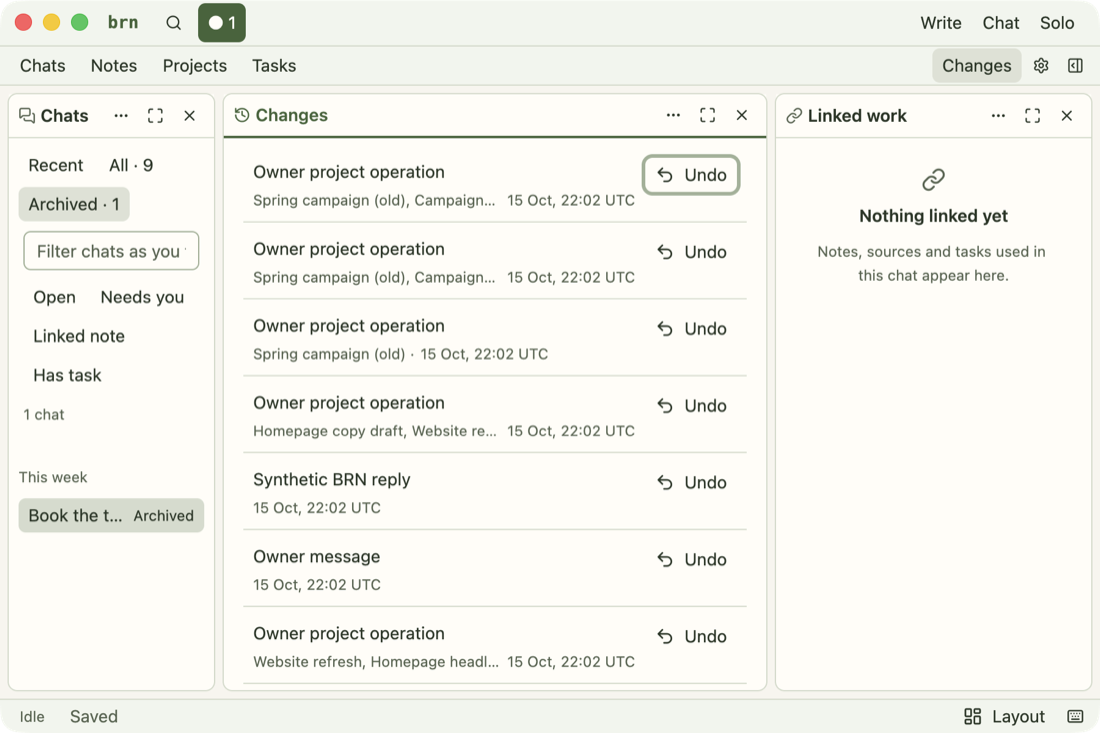
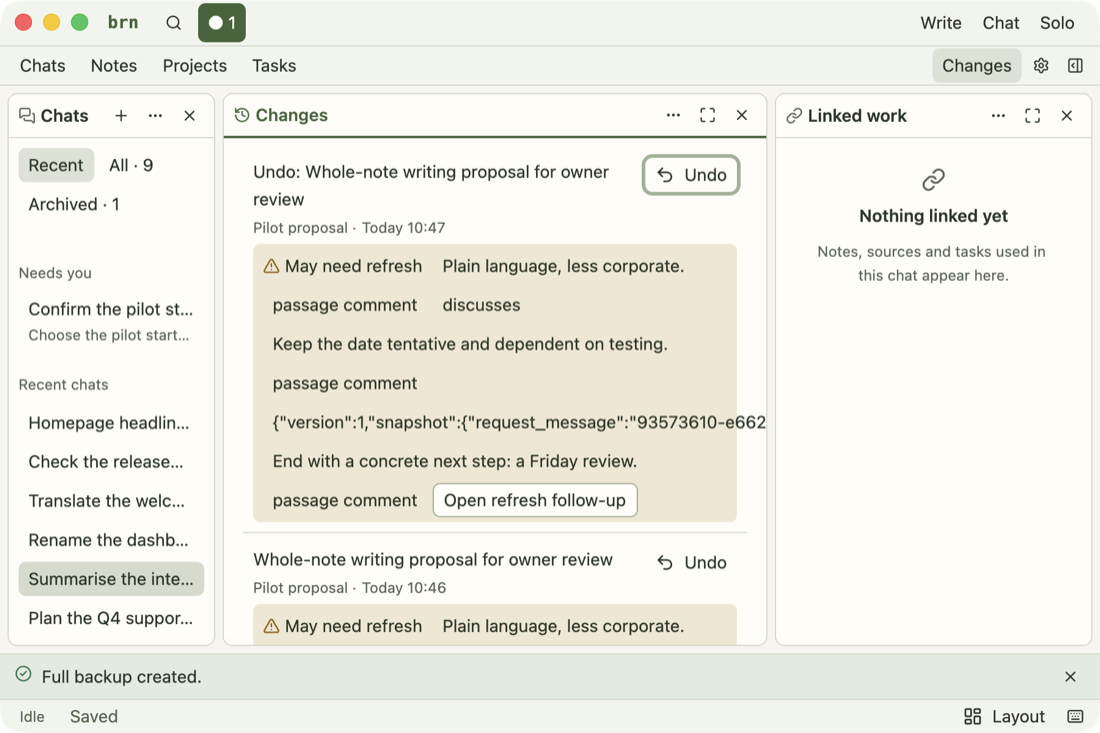
docs: record ui-polish native recheck of the fix pass on 354c1940

diff --git a/docs/work/active/ui-polish/verification.md b/docs/work/active/ui-polish/verification.md
@@ -1,6 +1,6 @@
 # UI polish: verification
 
-**Date:** 16 October 2026 (times are EEST, UTC+3). **Branch:** `work/ui-polish`, HEAD `ed8daa82` (base `771116f0`), worktree `.worktrees/ui-polish`. Nothing here is owner-accepted, published, merged or released. The record step commits this file and [`after/`](after/) with [evidence.md](evidence.md).
+**Date:** 16 October 2026 (times are EEST, UTC+3). **Branch:** `work/ui-polish`, worktree `.worktrees/ui-polish`, base `771116f0`, synced with `origin/main` `8bef439b`. The first native observation ran on HEAD `ed8daa82`. The [recheck of the fix pass](#recheck-of-the-fix-pass-head-354c1940) and the latest gate ran on HEAD `354c1940`. Nothing here is owner-accepted, published, merged or released. This file and [`after/`](after/) are committed with [evidence.md](evidence.md).
 
 ## Implemented
 
@@ -14,12 +14,35 @@ The seven slices and the integration fixes in [impl-plan.md](impl-plan.md) are o
 - **S6:** lists, pages and Settings.
 - **S7:** dialogs, focus, small windows and the state and copy sweep.
 - **Integration:** a fix commit (`ed8daa82`).
+- **Fix pass:** `3fdf5489` and its review round 2 (`354c1940`) fix the five native defects below, INT-1 to INT-6, U8 and U10. Detail is in [evidence.md](evidence.md#fix-pass-native-defects-integration-findings-u7-u8-u10).
 
 All seven slice reviews and the integration review (`code-review.md`, an uncommitted workflow file) are APPROVED. `git diff 771116f0 -- crates ':!crates/brn-desktop'`, `Cargo.lock` and the crate manifests are all empty.
 
 ## Automated-verified
 
-Run on HEAD `ed8daa82` with `PATH=/opt/homebrew/opt/rustup/bin:$PATH` and `CARGO_TARGET_DIR=<worktree>/target`, Rust 1.98.1. All commands exited 0. The only warning was the existing `block 0.1.6` future-incompatibility notice.
+### Full gate on HEAD `354c1940`
+
+Rerun by the verify step from 10:29:38 to 10:30:14, before any window opened. It used the full gate from [impl-plan.md](impl-plan.md#commands), `PATH=/opt/homebrew/opt/rustup/bin:$PATH`, `CARGO_TARGET_DIR=<worktree>/target` and Rust 1.98.1. Every command exited 0. The only warning was the existing `block 0.1.6` future-incompatibility notice.
+
+| Command | Result |
+|---|---|
+| `RUST_TEST_THREADS=1 scripts/verify-desktop-shell.sh` | helper and desktop build, clippy `-D warnings`, **263 passed**, 0 failed |
+| `cargo fmt --all -- --check` | clean |
+| `python3 scripts/check-markdown-links.py` | 117 files, 438 local links, 0 failures before these doc edits; 117 files, 472 local links, 0 failures on this commit |
+| `git diff --check` | clean |
+| `cargo clippy -p brn-desktop --features native-ui --all-targets --locked --offline -- -D warnings` | clean |
+| `cargo test -p brn-desktop --features native-ui --locked --offline` | **76 passed** |
+| `cargo clippy … --features native-ui,native-retrieval --all-targets … -D warnings` | clean |
+| `cargo test -p brn-desktop --features native-ui,native-retrieval --locked --offline` | **76 passed** |
+| `cargo test -p brn-desktop --locked --offline` (default features) | **28 passed** |
+| `cargo clippy -p brn-desktop --all-targets --locked --offline -- -D warnings` (default features) | clean |
+| `cargo clippy --workspace --all-targets --locked --offline -- -D warnings` | clean |
+
+`git diff --stat 771116f0 -- crates ':!crates/brn-desktop'` is empty, so the workspace test suite was not rerun. `Cargo.lock` and the crate manifests are unchanged from `771116f0`. The shared seam files and `docs/status.md` are unchanged from `8bef439b`. `origin/main` has since moved to `027aa7c2`; this branch is not synced with it.
+
+### Earlier gate on HEAD `ed8daa82`
+
+Run with `PATH=/opt/homebrew/opt/rustup/bin:$PATH` and `CARGO_TARGET_DIR=<worktree>/target`, Rust 1.98.1. All commands exited 0. The only warning was the existing `block 0.1.6` future-incompatibility notice.
 
 | Command | Result |
 |---|---|
@@ -37,6 +60,74 @@ Run on HEAD `ed8daa82` with `PATH=/opt/homebrew/opt/rustup/bin:$PATH` and `CARGO
 I didn't rerun the full workspace test suite, because nothing outside `crates/brn-desktop` changed. Keyboard, focus, Escape order, dialog ↵ classes, layout fits and theme deferral are covered by the 245 native tests. The real-input checks below are additional to those tests.
 
 ## Native-observed
+
+### Recheck of the fix pass (HEAD `354c1940`)
+
+A short check with real input of the items the fix pass changed, at 900×600 in light (Sammal) and dark (Virmalised), plus 1250×860 for INT-3. No fixes were made in this step.
+
+**How:**
+
+- **Build.** `cargo build -p brn-desktop --features native-ui --locked --offline` at `354c1940` produced the binary, sha256 `3a922bcc…28b0be`. `scripts/make-macos-app.sh` wrapped it in two scratch bundles under `/private/tmp/brn-ui-polish-recheck-20261016/apps/`, with bundle IDs `dev.brn.threads.uipolish-recheck.{seeded,empty}`.
+- **Data.** [`seed-fixture.rs.txt`](observation/seed-fixture.rs.txt) was built as a temporary example in a `git archive` export outside Git. It ran through the shared `Workspace` service against fresh `seeded` and `empty` folders, and headless startup reported 71 and 2 records.
+  - The provider is `offline-fixture` with no credentials. No provider request was made, and nothing that starts a run was pressed: no Continue, Retry, Resume queue or Send.
+  - The only writes were synthetic and went through the checked service: one Apply and its Undo, one discarded edit, one full backup to the scratch folder, theme changes, and one unsaved edit left in the scratch data for the restart check.
+- **Input and capture.** `AXIsProcessTrusted()` returned `true`. [`input.swift`](observation/input.swift) posted the CGEvents, with the scratch-only keycode typer from the first run. That typer left Shift latched once, so one draft reads in capitals ([06](after/06-comment-draft-stacked-900-light.png)); this is a harness artifact. [`wincap.swift`](observation/wincap.swift) captured the windows. The observation harness was not built or used, and nothing was compiled into `crates/` or `scripts/`.
+
+**Go-ahead and timing.**
+
+- Before any window opened, this step sent the parent a warning asking for a go-ahead. The orchestrator first replied "no go-ahead yet". The go-ahead acted on was the later reply "go" in this step's session.
+- Before launching anything, `.worktrees/coordination/MAC-IN-USE` did not exist. This step created it at 10:43 and deleted it at 10:59:21, then added a line to `BOARD.md` under "work/ui-polish (lead)".
+- Window use ran from **10:43:23** (seeded bundle launched) to **10:59:09** (empty bundle quit with ⌘Q):
+  - The seeded bundle quit with ⌘Q at 10:56:02 for the restart check, relaunched at 10:56:21, and quit at 10:57:25.
+  - The empty bundle launched at 10:57:31.
+- After quitting, `pgrep` found no `brn-desktop` process and ScreenCaptureKit listed no BRN window.
+
+**Results.** "Rechecked" means seen with real input on this build; the test names are in [evidence.md](evidence.md#fix-pass-native-defects-integration-findings-u7-u8-u10).
+
+| Item | Native result at `354c1940` | Status |
+|---|---|---|
+| 1 Focus after Escape on a menu-launched dialog | Projects ⋯ → Move to Trash… → Escape, then ⌘K opened the launcher. Projects ⋯ → Instructions & settings → Escape, then Tab moved the focus ring to the Trash segment inside Projects, and ⌘K opened the launcher. [47](after/47-cmdk-after-menu-dialog-escape-900-light.png) | **fixed, rechecked** for the two Projects ⋯ dialogs. The Note ⋯, Chats ＋ and row-menu dialogs were not rechecked. |
+| 2 Queue strip "1 waiting · Pa…" | In the narrow Write companion the strip reads "Paused · 1 wa…": the state is whole and the count gives way. Its tooltip is "Paused · 1 waiting". Chat layout shows "Paused · 1 waiting", and 1250×860 shows "Queue paused · 1 waiting". [01](after/01-shell-900-light.png), [48](after/48-queue-strip-tooltip-900-light.png) | **fixed, rechecked** |
+| 3a Delegation card | The explanations wrap inside the card, and "notes?" stays one unit, in light and Virmalised. [43](after/43-delegation-card-900-light.png) | **fixed, rechecked** |
+| 3b Stacked draft input | `comment-input-box` is whole inside the section, and Escape collapsed it with the caret back in the editor. [06](after/06-comment-draft-stacked-900-light.png) | **fixed, rechecked**. A new clip below the section is listed under "New findings". |
+| 3c Notes rows "Protect…" | The protected decision shows the Lock chip, in light and Virmalised. [05](after/05-note-comments-stacked-900-light.png) | **fixed, rechecked** |
+| 3d Navigation titles "…" | "Chats" and "Notes" read in full in the 170 pt navigation panel, and Maximize is in the header ⋯. [01](after/01-shell-900-light.png) | **fixed, rechecked** |
+| 4a, U8 Receipt reasons in notices | Apply: "Saved. 8 related items may need refresh. Open Changes to review them." Undo: "Undone. 8 related items may need refresh. …". Neither shows the service reason. [44](after/44-applied-notice-900-light.png) | **fixed, rechecked** |
+| 4b "Passage not found" after Undo | After Apply (v2) and Undo (v3), all three cards read "Tied to v1, not re-anchored to v3. Exclude it, or select the passage and comment again." [45](after/45-note-wide-toolbar-1250-dark-virmalised.png) | **fixed, rechecked** |
+| 4c Backup path twice | In Settings → Data the banner reads "Full backup created.", and the status line keeps the path once. | **fixed, rechecked** |
+| 4d UTC times | Changes shows "Today 10:47" and "Today 10:46", the local times of the Undo and the Apply. The UTC tooltip was not hovered. [11](after/11-changes-900-light.png) | **fixed, rechecked** |
+| 5a Settings ring on General | After a click on Models (light) or on General (Virmalised), no focus ring stays on General. [16](after/16-settings-models-900-light.png) | **fixed, rechecked** |
+| 5b Continue and Send both filled | Beside the Failed card and the "Not answered yet" card, Continue is filled and Send is outline. Checked in the Write companion and Chat layout, in light and Virmalised. [29](after/29-chat-failed-900-dark-virmalised.png) | **fixed, rechecked** |
+| 5c Busiest Note text box | The busiest state (stale edit, failed note run, partial reply, dirty bar) can't be built from this fixture. | not rechecked |
+| INT-2 Undo during an open edit | After Apply, typing hid `undo-writing-apply` (Discard…, Save as new note, Save ⌘S). After the Discard dialog's danger Discard, Undo was back. | **fixed, rechecked** |
+| INT-3 Edit note and Connections at 1250×860 | With system fonts, a plain note (Vendor comparison) keeps all five format buttons, Outline, the status chip, the comment toggle, Edit note and Connections in one toolbar row. The Pilot proposal (3 comments, "Working · v3") also keeps Edit note and Connections, with formatting folded into Format ▾. So the test text system's 706 pt estimate is conservative on macOS. [45](after/45-note-wide-toolbar-1250-dark-virmalised.png), [46](after/46-plain-note-toolbar-1250-dark-virmalised.png) | **fixed, rechecked** |
+| INT-6 Disabled Show passage | Hovering a card showed "Show passage is unavailable: the comment is tied to v1, not v3." | rechecked (tooltip only) |
+| U7 Needs-you rows | "Confirm the pilot st…" sits above its reason. The recoverable-edit row is listed under "New findings". | partly rechecked |
+| INT-1 Kept-edit primary | After ⌘Q with an unsaved edit and a relaunch, BRN reopened it as an open recoverable edit ("Unsaved edit · recoverable", with Save ⌘S as the primary), not the blocked kept-edit state. | not rechecked |
+| INT-4, FIX-2 Banner stack and text floor | The fixture has no stale-edit or newer-version banner. The text-floor rule stays **pending owner acceptance**. | not rechecked |
+| U10 Recorded terminal notice | This needs a run that finishes Failed or Interrupted, which needs a provider. | not rechecked |
+| INT-5 Untested states | The empty states were seen again (no chats, no note open, no comments yet), along with the delegation card. Link document by keyboard and the running short-window queue were not checked. | partly rechecked |
+
+**New findings at `354c1940`** (native, not fixed here):
+
+1. **The writing bar clips while a stacked comment draft is open at 900×600.**
+   - The bar's last row runs out of the Note's bottom edge: "Rewrite with AI ⌘⇧R" at v1.
+   - After Undo, with the notice row shown, the filled primary "Retry saved rewrite" is about half visible.
+   - With the section open and no draft, the bar fits.
+   - Shot: [06](after/06-comment-draft-stacked-900-light.png).
+2. **Edit note's disabled reason contradicts the status bar.** While a waiting message sits in the paused queue, Edit note is disabled with "Edit note is unavailable: BRN is working", but the status bar reads "Idle" and nothing runs.
+   - The gating (`context_work_idle` requires an empty queue) is unchanged from `771116f0`. The reason wording is new on this branch.
+   - Shot: [46](after/46-plain-note-toolbar-1250-dark-virmalised.png).
+3. **Changes' "May need refresh" sub-row names records through `title()`.**
+   - A writing-request record shows raw JSON (`{"version":1,"snapshot":{"request_message":…`), which runs past the panel edge.
+   - Comment and link records show "passage comment" and "discusses".
+   - The naming is unchanged from base (which labelled them "May need refresh: …"); the pill layout is new.
+   - Shot: [11](after/11-changes-900-light.png).
+4. **The recoverable-edit needs-you row leads with the action.** At 170 pt it reads "Recov… [Unsaved]", so the note's name shows only in the tooltip ("Recover edit · Vendor comparison · Unsaved").
+
+**Shots replaced in [`after/`](after/)** by captures from this build: 01, 04, 05, 06, 08, 11, 14 and 16 (same states), 29 (now Virmalised), and 43 (the delegation card, now fixed). Added: 44 to 48. The rest (10, 22, 25, 27, 34, 37, 41, 42) are still from `ed8daa82`, and some of them show the old queue strip and navigation titles.
+
+### First observation (HEAD `ed8daa82`)
 
 **How:** real input on the unmodified product build, not the harness.
 
@@ -56,7 +147,7 @@ I didn't rerun the full workspace test suite, because nothing outside `crates/br
 - Before the go-ahead, only windowless checks ran: the AX-trust query and `--headless-check startup`.
 - After quitting, `pgrep` found no BRN process from this step, and ScreenCaptureKit listed no BRN windows.
 
-**Journeys observed at 900×600 (one at 1250×860)**, in light (Sammal) and dark (Virmalised, Raba). Shots are 1100 px wide in [`after/`](after/); [`before/`](before/) was captured mostly at 1250×860 with the same fixture.
+**Journeys observed at 900×600 (one at 1250×860)**, in light (Sammal) and dark (Virmalised, Raba). Shots are 1100 px wide in [`after/`](after/); [`before/`](before/) was captured mostly at 1250×860 with the same fixture. Shots 01, 04, 05, 06, 08, 11, 14, 16, 29 and 43 were later replaced by recheck captures at `354c1940` (same states, fixed items), so they no longer show the defects listed below.
 
 - **Shell.**
   - Write | Chat | Solo is in the title bar, and the status bar has run state, save state, Layout and Keys, with no theme control.
@@ -87,7 +178,7 @@ I didn't rerun the full workspace test suite, because nothing outside `crates/br
   - The failed run shows a Failed card in the error tone with the full recorded reason, the Continue consequence and "1 waiting message stays paused until you resume the queue."
   - The archived chat shows one Unarchive with Continue disabled, "Unarchive to continue."
   - The composer is one row.
-  - Shots: [22](after/22-chat-needs-you-900-light.png), [29](after/29-chat-failed-900-dark-raba.png), [25](after/25-archived-chat-900-light.png); compare [before 22](before/22-chat-needs-you-light.png), [before 25](before/25-archived-chat-light.png) and [before 29](before/29-chat-failed-dark-raba.png).
+  - Shots: [22](after/22-chat-needs-you-900-light.png), [29](after/29-chat-failed-900-dark-virmalised.png) (replaced at the recheck: Virmalised, Send outline), [25](after/25-archived-chat-900-light.png); compare [before 22](before/22-chat-needs-you-light.png), [before 25](before/25-archived-chat-light.png) and [before 29](before/29-chat-failed-dark-raba.png).
 - **Lists and pages.**
   - **Tasks:** one outline action plus a row ⋯ per task; Done and Cancelled are collapsed.
   - **Changes:** Undo ghosts.
@@ -103,7 +194,7 @@ I didn't rerun the full workspace test suite, because nothing outside `crates/br
   - Home shows the intro and the pending delegation card with two outline buttons and no filled primary. The card shows in one place at a time.
   - Shots: [41](after/41-empty-first-run-900-light.png), [42](after/42-empty-home-900-dark-virmalised.png); compare [before 41](before/41-empty-first-run-light.png).
 
-**Defects and rough edges seen natively.** No fixes are made in this step.
+**Defects and rough edges seen natively.** No fixes were made in that step. The fix pass fixed all five. The [recheck](#recheck-of-the-fix-pass-head-354c1940) saw these fixed natively: 1 (for the Projects ⋯ dialogs), 2, 3a–3d, 4a–4d, 5a and 5b. It did not recheck 5c.
 
 1. **Keyboard focus is lost after Escape closes a dialog opened from a ⋯ menu item.** This is the most important finding, because it breaks predictable keyboard use.
    - After Projects ⋯ → Move to Trash… → Escape, and again after Projects ⋯ → Instructions & settings → Escape, ⌘K and Tab did nothing until a click in the window.
@@ -111,7 +202,7 @@ I didn't rerun the full workspace test suite, because nothing outside `crates/br
    - The Note ⋯ "Discard edit…" path was not checked. These menu entry points are new on this branch; the base was not compared.
 2. **"Paused" is truncated** to "1 waiting · Pa…" in the queue strip of the narrow Write-layout chat companion at 900×600. Chat layout shows "1 waiting · Paused" in full. The tooltip was not checked.
 3. **Clipping at narrow widths:**
-   - The delegation card's "BRN updates ordinary notes and source referen…" runs past the card edge in the chat companion, and its "?" wraps onto its own line ([43](after/43-delegation-card-clipped-900-light.png)).
+   - The delegation card's "BRN updates ordinary notes and source referen…" runs past the card edge in the chat companion, and its "?" wraps onto its own line. The clipped shot was replaced at the recheck by the fixed card ([43](after/43-delegation-card-900-light.png)).
    - The stacked comment draft's input is cut off at the bottom by the section's height cap.
    - Notes rows show "Protect…".
    - Navigation panel titles collapse to "…" (the icon remains).
@@ -133,9 +224,16 @@ I didn't rerun the full workspace test suite, because nothing outside `crates/br
 
 ## Not observed
 
+- **Fix-pass items not rechecked natively** (automated-verified only):
+  - 5c, the busiest Note's text box
+  - INT-1, the kept-edit Recover primary
+  - INT-4 and FIX-2, the banner stack and the text floor under a banner (the rule is **pending owner acceptance**)
+  - U10, the recorded terminal notice
+  - the menu-launched dialogs other than Projects ⋯ (Note ⋯ Edit note… and Discard edit…, Chats ＋ New note, and the row menus' Move to project…)
+  - FIX-3, the Windows build
 - Live streaming, Stop/Steer, U1 Stop… on an orphaned Working run, the Note's still-running state, and the Quiet-off trace. These need a running worker; no provider calls were made.
-- The U3 review rows with Protected, a stale-edit or newer-version banner, the import-summary banner, and the recoverable-edit banner after a restart. The fixture doesn't create these states.
+- The U3 review rows with Protected, a stale-edit or newer-version banner, and the import-summary banner. The fixture doesn't create these states. After a restart, the unsaved edit came back as an open recoverable edit, which was observed at the recheck.
 - Attachments, Keep in BRN, Save as decision, Edit note, Connections, Knowledge check, Compare, Search, the Trash restore flow, the delete dialog's task choices, export, Change folder, and native file pickers.
-- Hover tooltips (apart from incidental ones), drag-resize, the 1050×700 size, Solo, Läänemeri, Paber, VoiceOver, IME, and contrast measurement.
+- Hover tooltips (apart from incidental ones and the queue strip's), drag-resize, the 1050×700 size, Solo, Läänemeri, Paber, VoiceOver, IME, and contrast measurement.
 - Tab-to-⋯ → ↵ → ↓ ↵ by real keys. Native-test-verified only.
 - Owner acceptance, and comparison against a native base build.

diff --git a/docs/work/active/ui-polish/evidence.md b/docs/work/active/ui-polish/evidence.md
@@ -1,14 +1,14 @@
 # UI polish: evidence
 
-**Date:** 16 October 2026. **Branch:** `work/ui-polish` (local only, not pushed), base `771116f0`. Product code was at `ed8daa82` for the native observation; the record commit added only these documents, and the [fix pass](#fix-pass-native-defects-integration-findings-u7-u8-u10) commits (`3fdf5489` and its [review round 2](#fix-pass-review-round-2)) change product code after it. **Design:** [plan.md](plan.md). **Slices:** [impl-plan.md](impl-plan.md). **Detailed verification and native observation:** [verification.md](verification.md).
+**Date:** 16 October 2026. **Branch:** `work/ui-polish` (local only, not pushed), base `771116f0`. The first native observation ran on `ed8daa82`. The [fix pass](#fix-pass-native-defects-integration-findings-u7-u8-u10) commits (`3fdf5489` and its [review round 2](#fix-pass-review-round-2), `354c1940`) change product code after it. They were [rechecked natively](#native-recheck-of-the-fix-pass-354c1940) on `354c1940`. **Design:** [plan.md](plan.md). **Slices:** [impl-plan.md](impl-plan.md). **Detailed verification and native observation:** [verification.md](verification.md).
 
 Each status below is reported on its own. Being implemented or verified does not mean the change is owner-accepted or merged.
 
 | Status | State |
 |---|---|
 | Implemented | yes, slices S1–S7 plus one integration fix, all in `crates/brn-desktop` and three contract docs |
-| Verified (automated) | yes, full gate on the fix-pass tree after [review round 2](#fix-pass-review-round-2); earlier on `ed8daa82` and `9fecaea1` |
-| Native-observed | partly, with real input on the product build; the gaps are listed below |
+| Verified (automated) | yes, full gate on `354c1940` (263 / 76 / 76 / 28, clippy clean), rerun by the verify step; earlier on `ed8daa82` and `9fecaea1` |
+| Native-observed | partly, with real input on the product build: the first observation on `ed8daa82`, then a recheck of the fix pass on `354c1940`. The gaps are listed below |
 | Owner-accepted | **no** |
 | Merged / published / released | **no** |
 
@@ -79,11 +79,11 @@ The workspace test suite was not rerun: `git diff --stat 771116f0 -- crates ':!c
 
 Shots are in [`after/`](after/); [`before/`](before/) holds the baseline.
 
-**Defects seen natively** (detail in [verification.md](verification.md)); all five are fixed in the fix pass below, automated-verified and not yet re-observed:
+**Defects seen natively** (detail in [verification.md](verification.md)). All five are fixed in the fix pass below and automated-verified. The [recheck](#native-recheck-of-the-fix-pass-354c1940) saw all of them fixed natively except 5c and the menu-launched dialogs outside Projects ⋯:
 
 1. Closing with Escape a dialog opened from a ⋯ menu item loses keyboard focus until the next click.
 2. The queue strip in the narrow chat companion truncates its state to "1 waiting · Pa…".
-3. Clipping at narrow widths: the delegation card ([43](after/43-delegation-card-clipped-900-light.png)), the stacked comment draft input, Notes rows, and Navigation panel titles.
+3. Clipping at narrow widths: the delegation card (the clipped shot was replaced by the fixed card, [43](after/43-delegation-card-900-light.png)), the stacked comment draft input, Notes rows, and Navigation panel titles.
 4. Copy: Apply/Undo notices run the service reason straight into the hint. After Undo, comments read "Passage not found". The backup path appears twice. Changes times show UTC.
 5. Minor: the Settings focus ring stays on General; Continue and Send are both filled; the Note text box is about 110 pt in the busiest 900×600 state.
 
@@ -96,7 +96,7 @@ Shots are in [`after/`](after/); [`before/`](before/) holds the baseline.
 
 ## Fix pass (native defects, integration findings, U7, U8, U10)
 
-Implemented and automated-verified only; nothing in this pass was observed natively. Service strings, the shared seams, `useful_intake`, `resume_chat_queue`, `docs/status.md`, `Cargo.lock` and the manifests are unchanged.
+Implemented and automated-verified when written. The verify step later rechecked most of these items natively on `354c1940`; see [the recheck](#native-recheck-of-the-fix-pass-354c1940). Service strings, the shared seams, `useful_intake`, `resume_chat_queue`, `docs/status.md`, `Cargo.lock` and the manifests are unchanged.
 
 | Item | Fix | Tests |
 |---|---|---|
@@ -115,7 +115,7 @@ Implemented and automated-verified only; nothing in this pass was observed nativ
 | 5c Busiest Note text box | The expanded saved rewrite inputs moved out of the writing bar into their own row that gives way (to 40 pt) before the text; the bar no longer overflows the Note. `note-body` keeps 120 px. | `the_busiest_note_keeps_its_text_and_whole_bar_at_900x600` (the bar ran 160 pt out of the Note before) |
 | INT-1 Kept-edit primary | Recover edit is the filled primary; a new `WritingRow::Recover` makes Rewrite with AI and Retry ghosts "unavailable: Recover the kept edit first". | `the_four_note_banners_stay_visible_in_write_at_900x600` |
 | INT-2 Undo during an open edit | Base `771116f0` rendered no Undo while dirty (its dirty branch was exclusive); this branch had added it. Restored: `undo-writing-apply` is not rendered while the note has an open edit; Changes keeps Undo. No version check changed. | `bound_terminal_clarification_stays_in_note_and_unrelated_chat_cannot_replace_it` (hidden while dirty, back after Discard) |
-| INT-3 Edit note and Connections | The fold uses this note's measured row (labels, chip, count) instead of the widest row. In the test text system (0.6 em per character, wider than macOS fonts) a plain note needs about 706 pt for that row and the Note at 1250×860 has 687, so there they still fold in tests; with system fonts the row is narrower. Not observed natively. | `edit_note_and_connections_stay_in_the_toolbar_when_this_notes_row_fits` (1330×860: plain inline, widest folded), `note_toolbar_folds_in_order_as_the_note_narrows` |
+| INT-3 Edit note and Connections | The fold uses this note's measured row (labels, chip, count) instead of the widest row. In the test text system (0.6 em per character, wider than macOS fonts) a plain note needs about 706 pt for that row and the Note at 1250×860 has 687, so there they still fold in tests; with system fonts the row is narrower. Natively at `354c1940` and 1250×860, a plain note kept both in the row ([46](after/46-plain-note-toolbar-1250-dark-virmalised.png)). | `edit_note_and_connections_stay_in_the_toolbar_when_this_notes_row_fits` (1330×860: plain inline, widest folded), `note_toolbar_folds_in_order_as_the_note_narrows` |
 | INT-4 Stale actions at the floor | The first banner leads the stack whole with its actions pinned; only its text scrolls in a short Note. Later banners and the saved version share a box that gives way first, down to its first line. Since review round 2 the text keeps 120 px beside open comments when a banner shows and there is room, and goes below it (to 48 px) only in the measured infeasible state; see [review round 2](#fix-pass-review-round-2). | `the_banner_stack_keeps_its_budget_above_the_text_at_900x600` asserts `save-buffer-copy` and `show-current-note` in view, and `note-body` ≥ 120 px with the stale banner and open comments |
 | INT-5 Untested states | Disabled reasons (INT-1, INT-2, INT-6 tests), empty states, Link document by keyboard, the running short-window queue row, the header ⋯ Open beside submenu. | `first_run_empty_states_name_the_next_step`, `link_document_rows_are_reached_by_tab_and_pressed_by_space`, `a_short_window_keeps_a_running_queue_to_one_quiet_row`, `a_narrow_list_header_keeps_its_title_and_its_menu_opens_beside` |
 | INT-6 Disabled Show passage | Announced "Show passage “quote”, unavailable: {why}", tooltip "Show passage is unavailable: {why}". | `review_in_place_applies_exact_candidate_then_marks_addressed_and_undoes` |
@@ -126,7 +126,7 @@ Implemented and automated-verified only; nothing in this pass was observed nativ
 
 ### Fix pass review round 2
 
-The workflow review `reviews/code-review-fix.md` (uncommitted, so cited as a path; verdict CHANGES_REQUESTED) found eight issues in `3fdf5489`. All eight are fixed below. Implemented and automated-verified only; nothing here was observed natively.
+The workflow review `reviews/code-review-fix.md` (uncommitted, so cited as a path; verdict CHANGES_REQUESTED) found eight issues in `3fdf5489`. All eight are fixed below. They were implemented and automated-verified when this was written. The later native recheck did not cover FIX-1 (U10), FIX-2, FIX-3 or FIX-6's row-menu path.
 
 | Finding | Fix | Tests |
 |---|---|---|
@@ -170,6 +170,41 @@ In the busiest state the rows that never hide take 332.5 px, which leaves 83.5 p
 
 The workspace test suite was not rerun, because `git diff --stat 771116f0 -- crates ':!crates/brn-desktop'` is empty. `Cargo.lock` and the crate manifests are unchanged from `771116f0`. The shared seam files and `docs/status.md` are unchanged from `origin/main` `8bef439b`.
 
+### Native recheck of the fix pass (`354c1940`)
+
+**Automated first.** The verify step reran the full gate on `354c1940` before opening any window. Every lane passed:
+
+- `verify-desktop-shell.sh`: **263 passed**, 0 failed.
+- `native-ui`: **76**. `native-ui,native-retrieval`: **76**. Default features: **28**.
+- The four clippy lanes with `-D warnings`, fmt and `git diff --check` are clean.
+- Links: 117 files, 438 local links, 0 failures, and 472 links with 0 failures after these doc edits.
+- The workspace suite was not rerun, because nothing outside `crates/brn-desktop` changed.
+
+Detail is in [verification.md](verification.md#full-gate-on-head-354c1940).
+
+**Native, with real input.** Window use ran from 10:43:23 to 10:59:09 EEST, under the coordination Mac lock (10:43 to 10:59:21), after the parent's go-ahead. It used two scratch bundles of the product build and fresh synthetic `/private/tmp` data seeded through the shared service. The provider was `offline-fixture`, with no provider requests. Sizes were 900×600 in Sammal and Virmalised, plus 1250×860. Every window was quit, and no BRN process remains. The per-item table is in [verification.md](verification.md#recheck-of-the-fix-pass-head-354c1940).
+
+- **Fixed and rechecked natively:**
+  - native defects 1 (Projects ⋯ → Move to Trash… and Instructions & settings), 2, 3a, 3b, 3c, 3d, 4a (U8), 4b, 4c, 4d, 5a and 5b
+  - INT-2
+  - INT-3: with macOS system fonts at 1250×860, a plain note keeps Edit note and Connections, and all five format buttons, in the toolbar row. A note with three comments also keeps them, with formatting in Format ▾.
+  - INT-6's disabled-Show-passage tooltip
+- **Automated-verified only, not rechecked natively:**
+  - 5c
+  - INT-1: a restart reopened the unsaved edit as an open recoverable edit, not the kept-edit state
+  - INT-4 and FIX-2: no stale banner in the fixture. The text-floor rule is still **pending owner acceptance**.
+  - INT-5 beyond the empty states
+  - U10: needs a finishing run
+  - the Note ⋯, Chats ＋ and row-menu dialog paths of item 1
+  - FIX-3, the Windows build
+- **New native findings, not fixed:**
+  1. With a stacked comment draft open at 900×600, the writing bar's last row is clipped at the Note's bottom edge. After Undo this includes the filled "Retry saved rewrite".
+  2. While the paused queue holds a waiting message, Edit note says "unavailable: BRN is working" and the status bar says "Idle". The gating is from base; the reason wording is new.
+  3. Changes' "May need refresh" pills name a writing-request record by its raw JSON, which overflows the panel. The `title()` naming is from base.
+  4. The recoverable-edit needs-you row reads "Recov… [Unsaved]" at 170 pt.
+
+Replaced shots: 01, 04, 05, 06, 08, 11, 14, 16, 29 (now `29-chat-failed-900-dark-virmalised.png`) and 43 (now `43-delegation-card-900-light.png`). New shots: 44 to 48.
+
 ## Owner-accepted
 
 No. The owner has not reviewed the implemented UI.
@@ -180,7 +215,11 @@ No. Nothing is pushed, merged, published or released.
 
 ## Open items
 
-- **Native re-observation of the fix pass**: native defects 1–5, INT-1 to INT-6, U7, U8 and U10 are fixed and automated-verified (see Fix pass), not re-observed. INT-3 in particular depends on macOS font widths: whether a plain note keeps Edit note and Connections at 1250×860 needs a native look. INT-7 (the link check) was resolved by the record commit.
+- **Native recheck gaps:**
+  - The [recheck](#native-recheck-of-the-fix-pass-354c1940) confirmed natively: native defects 1 (Projects ⋯ paths), 2, 3a–3d, 4a–4d, 5a and 5b, plus INT-2 and INT-3.
+  - Still automated-verified only: 5c, INT-1, INT-4/FIX-2, the rest of INT-5, U10, the other menu-launched dialog paths, and the Windows build.
+  - INT-7 (the link check) was resolved by the record commit.
+- **New native findings at `354c1940`** (not fixed): the writing bar clipped under an open stacked draft at 900×600; Edit note's "BRN is working" reason while the queue is only paused; raw JSON in Changes' refresh pills; the "Recov…" needs-you row. See [verification.md](verification.md#recheck-of-the-fix-pass-head-354c1940).
 - **Fix-pass trade-offs to confirm:**
   - plan.md's height-share rule under a banner is pending owner acceptance. With a Note banner shown, the text keeps 120 px beside open comments when there is room. In the measured busiest stale state at 900×600 it gets 83.5 px, above a 48 px floor, because banners, a failed run's reason and the writing bar are never hidden to meet the budget.
   - The All chats day grouping stays in UTC while times are local.
